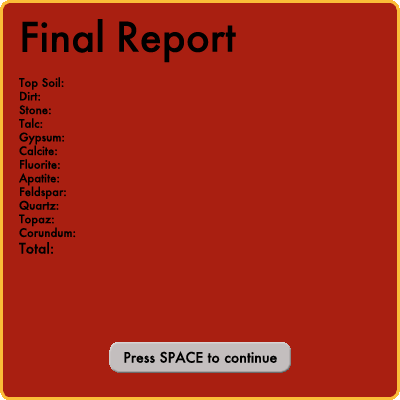
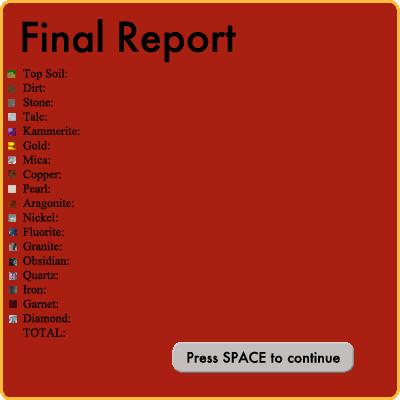
Final And Nevermore!
Final Code for Drilling, which includes student-input minerals.
They are as follows (code line 98 & 99):
Topsoil, Soil, Stone, Talc, Kammerite, Gold, Mica, Copper, Pearl,
Aragonite, Nickel, Fluorite, Granite, Obsidian, Quartz, Iron, Garnet,
Diamond
var collectedRocks = [0, 0, 0, 0, 0, 0, 0, 0, 0, 0, 0, 0, 0, 0, 0, 0,
0, 0];

Changed region(s): [[0.0, 0.18, 0.21, 0.84], [0.27, 0.84, 0.9, 0.93]]

diff --git a/main.js b/main.js
@@ -95,8 +95,8 @@ window.onload = function(){
 		
 		// Array of rock objects to pass onto hardness/streak tests
 		
-		// Topsoil, Soil, Stone, Talc, Gypsum, Calcite, Fluorite, Apatite, Feldspar, Quartz, Topaz, Corundum
-		var collectedRocks = [0, 0, 0, 0, 0, 0, 0, 0, 0, 0, 0, 0];
+		// Topsoil, Soil, Stone, Talc, Kammerite, Gold, Mica, Copper, Pearl, Aragonite, Nickel, Fluorite, Granite, Obsidian, Quartz, Iron, Garnet, Diamond
+		var collectedRocks = [0, 0, 0, 0, 0, 0, 0, 0, 0, 0, 0, 0, 0, 0, 0, 0, 0, 0];
 		
 		// Defines the level with blocks (for STAGE)
 		stage.x = 0;
@@ -129,7 +129,8 @@ window.onload = function(){
 							{
 								var block = new PhyBoxSprite(32, 32, enchant.box2d.STATIC_SPRITE, 1.0, 0.5, 0, true);
 								
-								if(rand(20) == 1) block.frame = 4;
+								if(rand(20) == 1) block.frame = 5;			// gold
+								else if(rand(20) == 1) block.frame = 4;		// kammerite
 								else block.frame = 1;
 							}
 							else if(chunkType == 3)
@@ -138,14 +139,17 @@ window.onload = function(){
 								{
 									var block = new PhyBoxSprite(32, 32, enchant.box2d.STATIC_SPRITE, 1.0, 0.5, 0.01, true);
 									
-									if(rand(30) == 1) block.frame = 5;
+									if(rand(25) == 1) block.frame = 8;			// pearl
+									else if(rand(20) == 1) block.frame = 7;		// copper
+									else if(rand(20) == 1) block.frame = 6;		// mica
 									else block.frame = 1;
 								}
 								else
 								{
 								 	var block = new PhyBoxSprite(32, 32, enchant.box2d.STATIC_SPRITE, 1.0, 0.5, 0, true);
 								 	
-								 	if(rand(40) == 1) block.frame = 6;
+								 	if(rand(40) == 1) block.frame = 10;			// nickel
+								 	else if(rand(30) == 1) block.frame = 9;		// aragonite
 								 	else block.frame = 2;	
 								}
 							}
@@ -153,10 +157,10 @@ window.onload = function(){
 							{
 								var block = new PhyBoxSprite(32, 32, enchant.box2d.STATIC_SPRITE, 1.0, 0.5, 0, true);
 								
-								if(rand(70) == 1) block.frame = 9;
-								else if(rand(60) == 1) block.frame = 8;
-								else if(rand(50) == 1) block.frame = 7;
-							    block.frame = 2;
+								if(rand(70) == 1) block.frame = 14;			// obsidian
+								else if(rand(60) == 1) block.frame = 13;	// granite
+								else if(rand(50) == 1) block.frame = 12;	// fluorite
+								else block.frame = 2;
 							}
 							else if(chunkType == 5)
 							{
@@ -164,9 +168,10 @@ window.onload = function(){
 								{
 									var block = new PhyBoxSprite(32, 32, enchant.box2d.STATIC_SPRITE, 1.0, 0.5, 0.01, true);
 									
-									if(rand(100) == 1) block.frame = 12;
-									else if(rand(90) == 1) block.frame = 11;
-									else if(rand(80) == 1) block.frame = 10;
+									if(rand(100) == 1) block.frame = 18; 		// diamond
+									else if(rand(90) == 1) block.frame = 17;	// garnet
+									else if(rand(90) == 1) block.frame = 16;	// iron
+									else if(rand(80) == 1) block.frame = 15;	// quartz
 									else block.frame = 2;
 								}
 								else
@@ -391,11 +396,11 @@ window.onload = function(){
         		stage.removeChild(cannonStack);
         		stage.addChild(hudScore);
         		hudLabel.x = hudScore.x + 100;
-        		hudLabel.y = hudScore.y + 71;
+        		hudLabel.y = hudScore.y + 66;
         		
         		var totalScore = 0;
         		
-        		for(var i = 0; i < 11; i++)
+        		for(var i = 0; i < 17; i++)
         		{
         			totalScore += (collectedRocks[i] * ((i + 1) * 5));
         		}
@@ -412,6 +417,12 @@ window.onload = function(){
         						 "x  " + collectedRocks[9] + " = " + collectedRocks[9] * 50 + "<br/>" +
         						 "x  " + collectedRocks[10] + " = " + collectedRocks[10] * 55 + "<br/>" +
         						 "x  " + collectedRocks[11] + " = " + collectedRocks[11] * 60 + "<br/>" +
+        					     "x  " + collectedRocks[12] + " = " + collectedRocks[11] * 65 + "<br/>" +
+        						 "x  " + collectedRocks[13] + " = " + collectedRocks[11] * 70 + "<br/>" +
+        						 "x  " + collectedRocks[14] + " = " + collectedRocks[11] * 75 + "<br/>" +
+        						 "x  " + collectedRocks[15] + " = " + collectedRocks[11] * 80 + "<br/>" +
+        						 "x  " + collectedRocks[16] + " = " + collectedRocks[11] * 85 + "<br/>" +
+        						 "x  " + collectedRocks[17] + " = " + collectedRocks[11] * 90 + "<br/>" +
         						 totalScore);
         	}
         });
